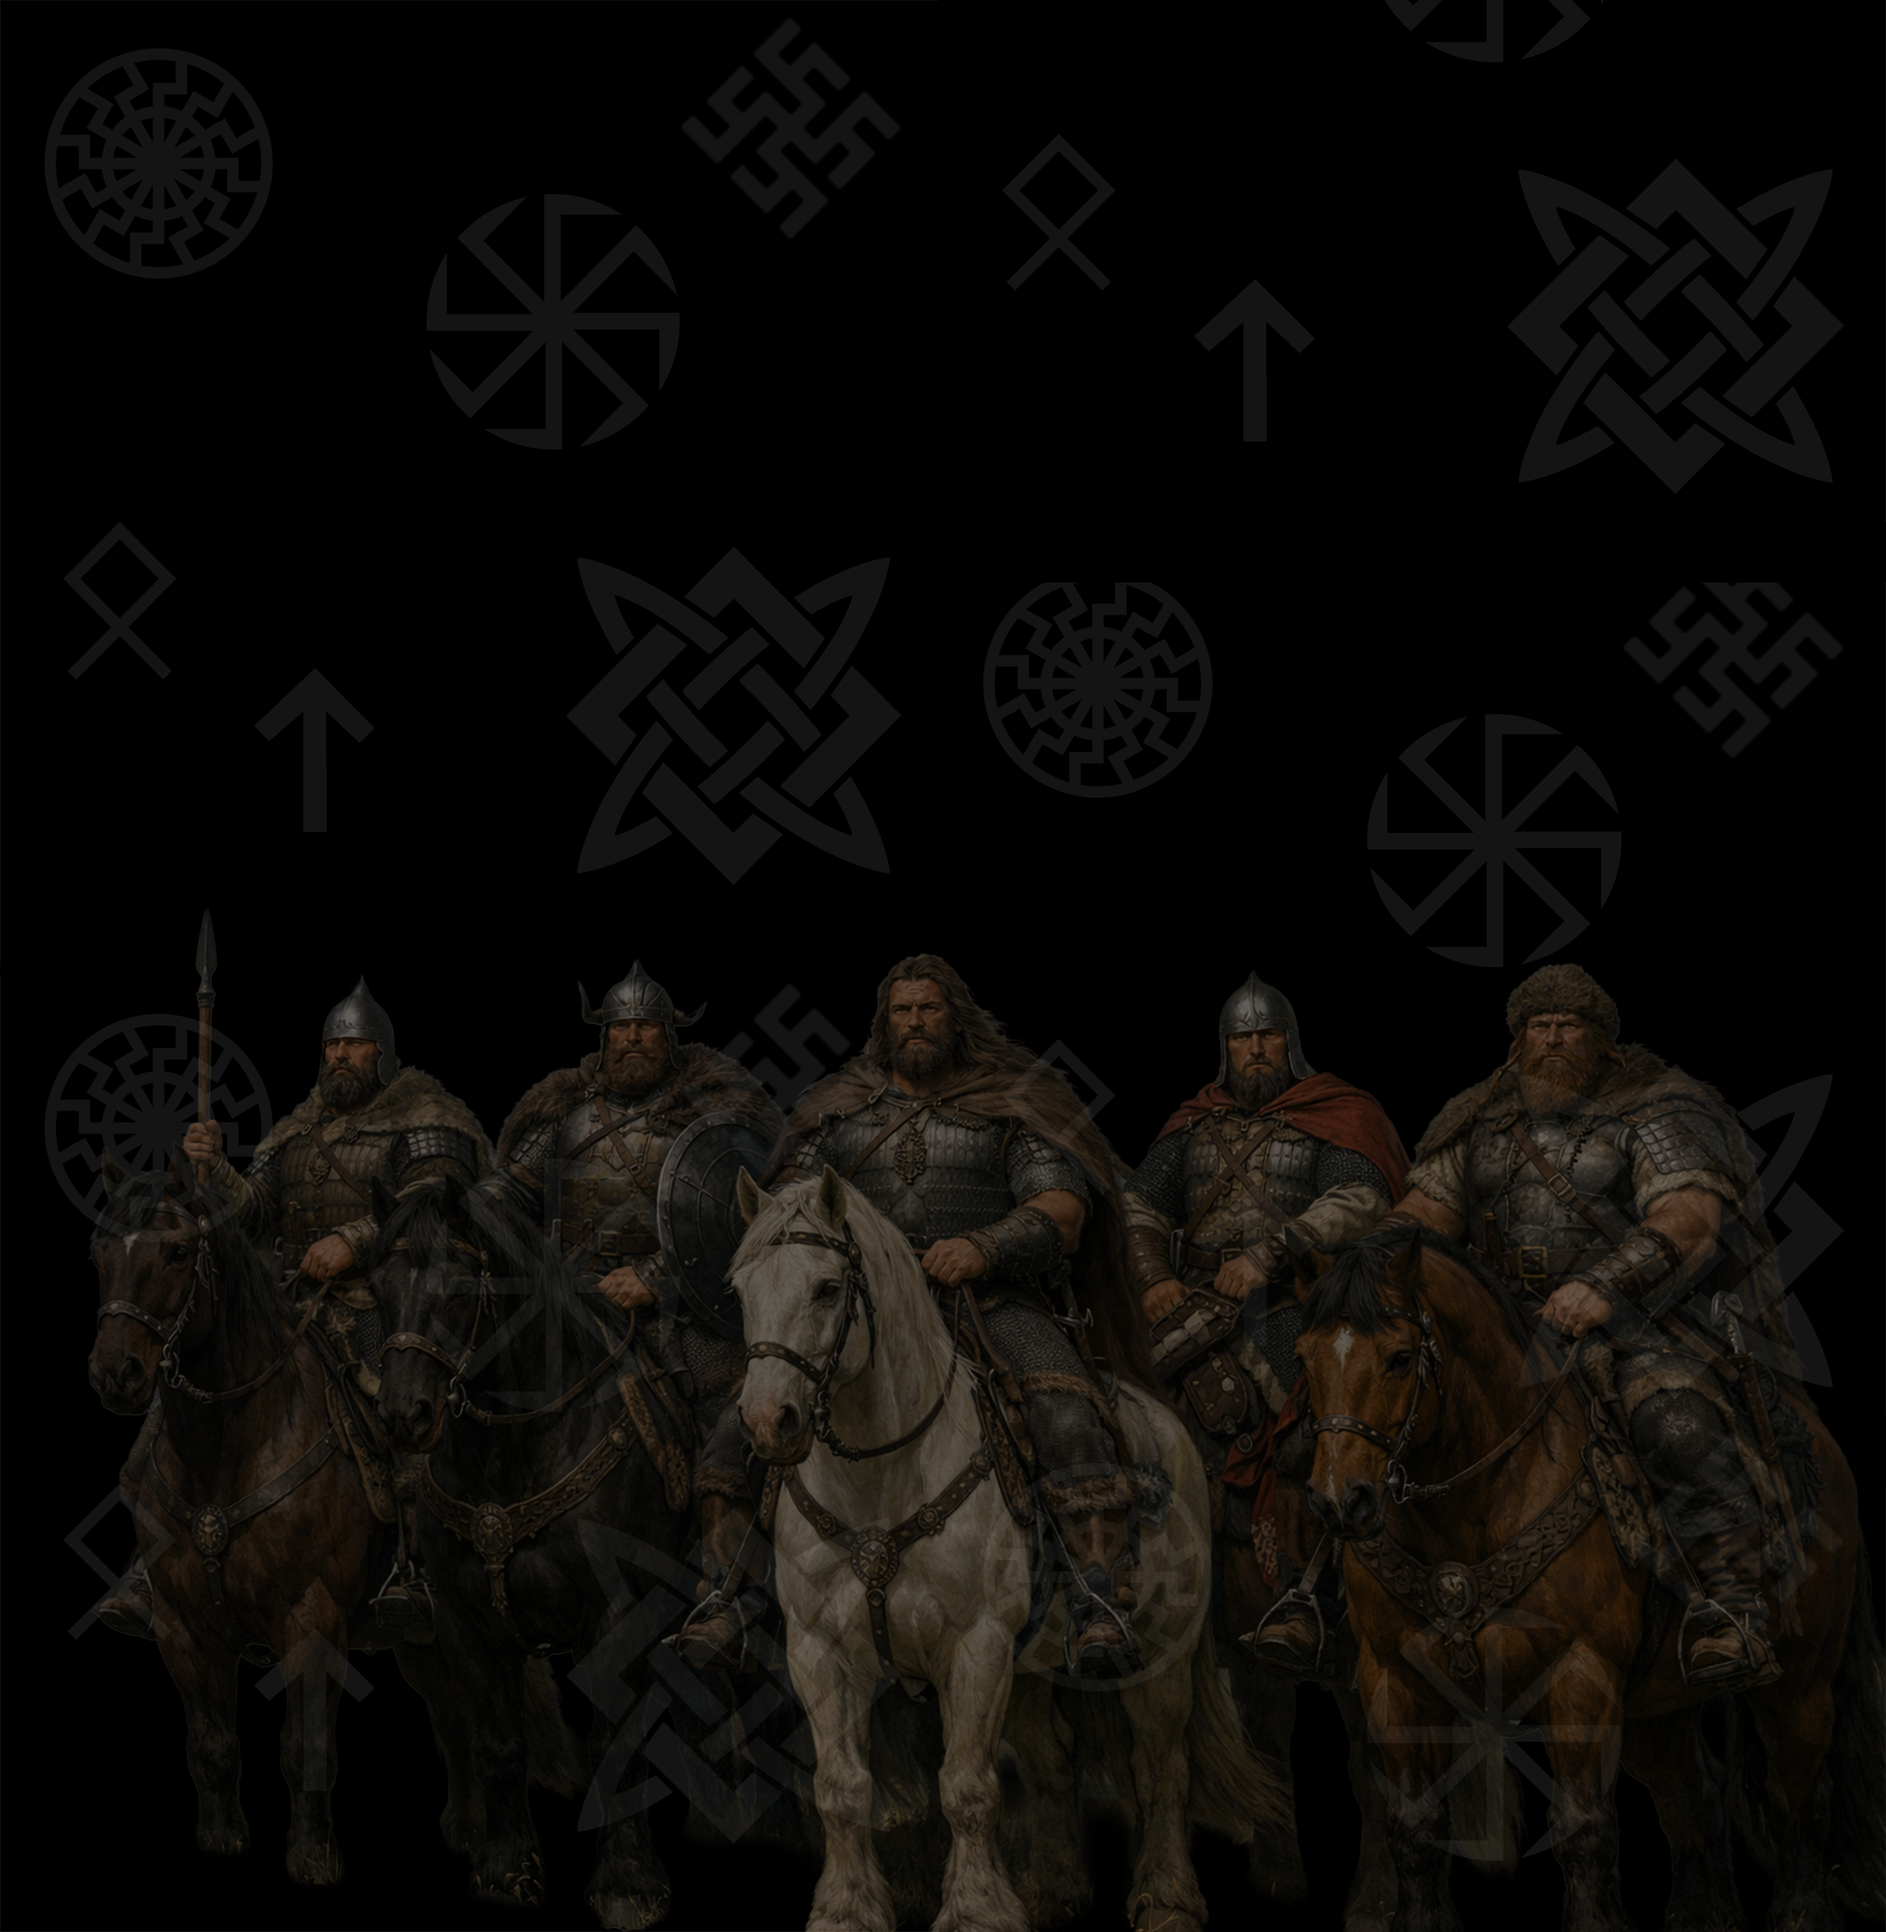
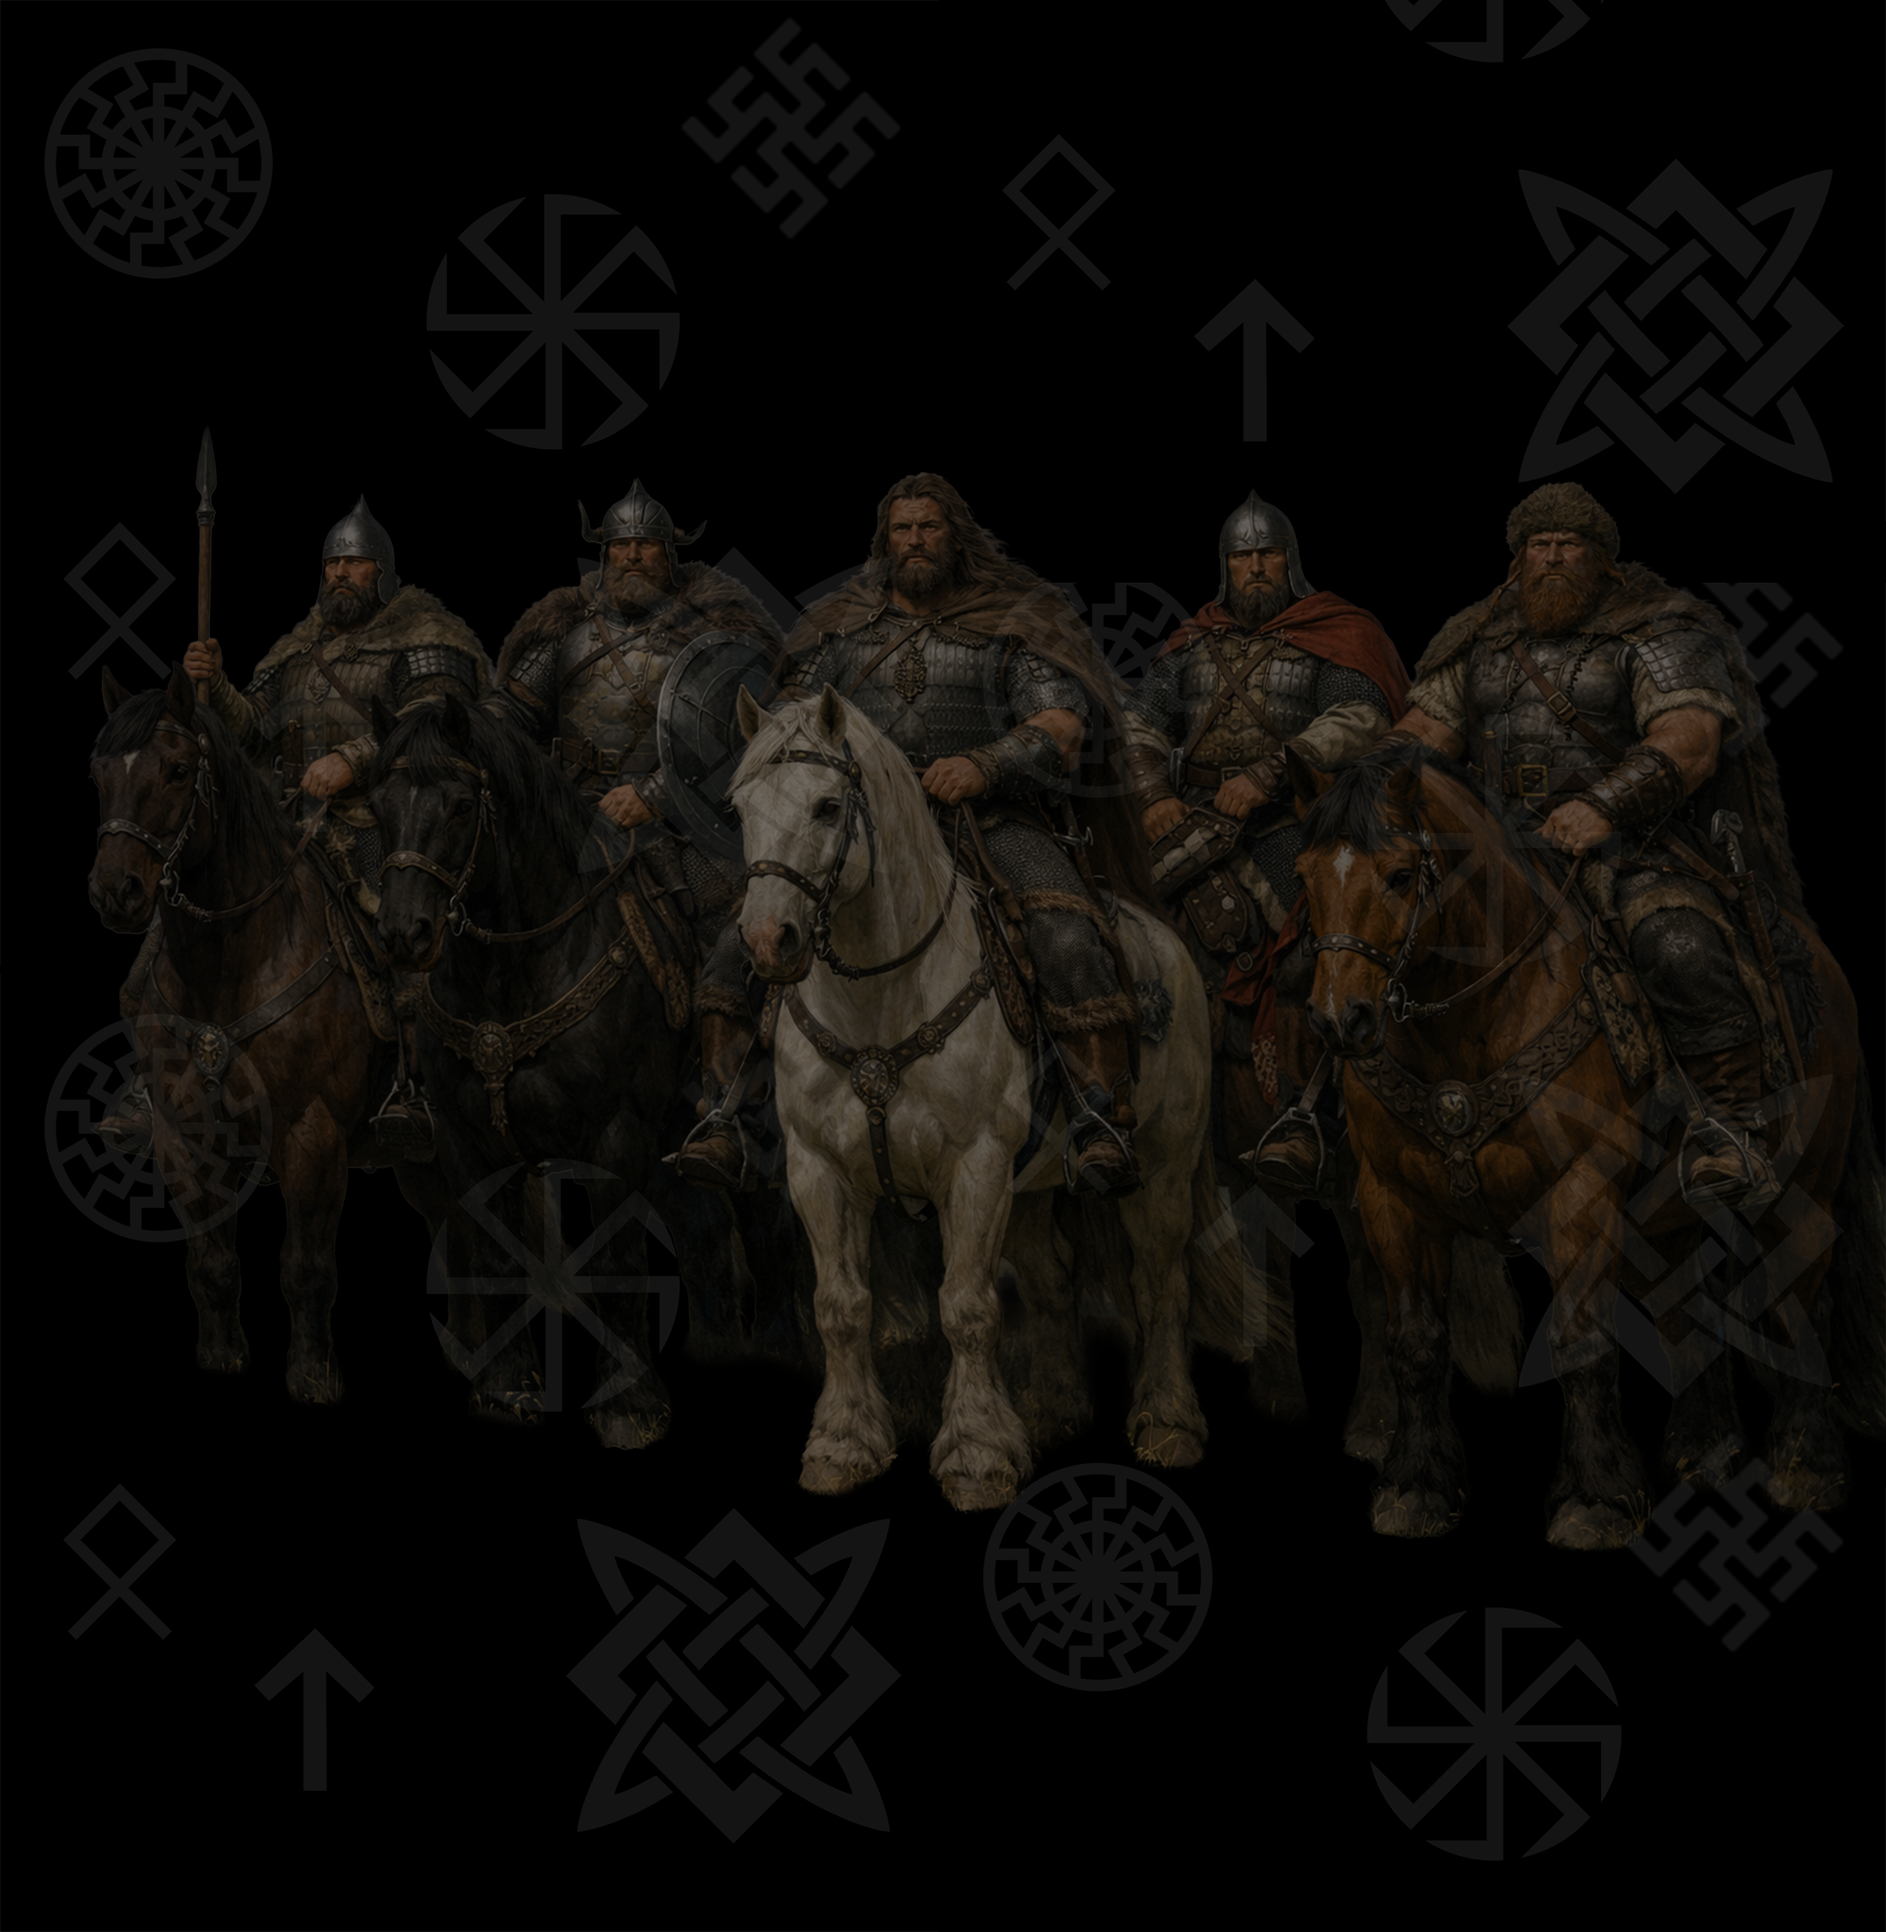
style: update site backgrounds and positioning to center images\n\nUpdate all component backgrounds to use 'center center' for centered images.

diff --git a/components/header.tsx b/components/header.tsx
@@ -38,7 +38,7 @@ export function Header() {
         backgroundColor: 'var(--dark-bg)',
         backgroundImage: 'url(/images/bg-black-pattern.png)',
         backgroundSize: 'cover',
-        backgroundPosition: 'center bottom',
+        backgroundPosition: 'center center',
         backgroundRepeat: 'no-repeat',
       }}
     >
@@ -111,7 +111,7 @@ export function Header() {
           backgroundColor: 'var(--dark-bg)',
           backgroundImage: 'url(/images/bg-black-pattern.png)',
           backgroundSize: 'cover',
-          backgroundPosition: 'center bottom',
+          backgroundPosition: 'center center',
           backgroundRepeat: 'no-repeat',
           borderTop: '1px solid var(--dark-border)'
         }}

diff --git a/app/globals.css b/app/globals.css
@@ -131,14 +131,14 @@
     background-color: var(--dark-bg);
     background-image: url('/images/bg-black-pattern.png');
     background-size: cover;
-    background-position: center bottom;
+    background-position: center center;
     background-repeat: no-repeat;
   }
   .bg-pattern-grey {
     background-color: var(--dark-surface);
     background-image: url('/images/bg-grey-pattern.png');
     background-size: cover;
-    background-position: center bottom;
+    background-position: center center;
     background-repeat: no-repeat;
   }
 }

diff --git a/components/footer.tsx b/components/footer.tsx
@@ -9,7 +9,7 @@ export function Footer() {
         backgroundColor: 'var(--dark-bg)',
         backgroundImage: 'url(/images/bg-black-pattern.png)',
         backgroundSize: 'cover',
-        backgroundPosition: 'center bottom',
+        backgroundPosition: 'center center',
         backgroundRepeat: 'no-repeat',
         borderColor: 'var(--dark-border)',
         color: 'var(--foreground)'

diff --git a/app/schedule-prices/page.tsx b/app/schedule-prices/page.tsx
@@ -22,7 +22,7 @@ export default function SchedulePricesPage() {
             backgroundColor: 'var(--dark-bg)',
             backgroundImage: 'url(/images/bg-black-pattern.png)',
             backgroundSize: 'cover',
-            backgroundPosition: 'center bottom',
+            backgroundPosition: 'center center',
             backgroundRepeat: 'no-repeat',
           }}
         >

diff --git a/app/contacts/page.tsx b/app/contacts/page.tsx
@@ -20,7 +20,7 @@ export default function ContactsPage() {
             backgroundColor: 'var(--dark-bg)',
             backgroundImage: 'url(/images/bg-black-pattern.png)',
             backgroundSize: 'cover',
-            backgroundPosition: 'center bottom',
+            backgroundPosition: 'center center',
             backgroundRepeat: 'no-repeat',
           }}
         >

diff --git a/app/coaches/page.tsx b/app/coaches/page.tsx
@@ -21,7 +21,7 @@ export default function CoachesPage() {
             backgroundColor: 'var(--dark-bg)',
             backgroundImage: 'url(/images/bg-black-pattern.png)',
             backgroundSize: 'cover',
-            backgroundPosition: 'center bottom',
+            backgroundPosition: 'center center',
             backgroundRepeat: 'no-repeat',
           }}
         >

diff --git a/components/contacts/contacts-content.tsx b/components/contacts/contacts-content.tsx
@@ -67,7 +67,7 @@ export function ContactsContent() {
           backgroundColor: 'var(--dark-bg)',
           backgroundImage: 'url(/images/bg-black-pattern.png)',
           backgroundSize: 'cover',
-          backgroundPosition: 'center bottom',
+          backgroundPosition: 'center center',
           backgroundRepeat: 'no-repeat',
         }}
       >

diff --git a/components/schedule/pricing-section.tsx b/components/schedule/pricing-section.tsx
@@ -156,7 +156,7 @@ export function PricingSection() {
         backgroundColor: 'var(--dark-bg)',
         backgroundImage: 'url(/images/bg-black-pattern.png)',
         backgroundSize: 'cover',
-        backgroundPosition: 'center bottom',
+        backgroundPosition: 'center center',
         backgroundRepeat: 'no-repeat',
       }}
     >

diff --git a/components/home/reviews-section.tsx b/components/home/reviews-section.tsx
@@ -63,7 +63,7 @@ export function ReviewsSection() {
         backgroundColor: 'var(--dark-bg)',
         backgroundImage: 'url(/images/bg-black-pattern.png)',
         backgroundSize: 'cover',
-        backgroundPosition: 'center bottom',
+        backgroundPosition: 'center center',
         backgroundRepeat: 'no-repeat',
       }}
     >

diff --git a/components/home/why-us-section.tsx b/components/home/why-us-section.tsx
@@ -41,7 +41,7 @@ export function WhyUsSection() {
         backgroundColor: 'var(--dark-bg)',
         backgroundImage: 'url(/images/bg-black-pattern.png)',
         backgroundSize: 'cover',
-        backgroundPosition: 'center bottom',
+        backgroundPosition: 'center center',
         backgroundRepeat: 'no-repeat',
       }}
     >

diff --git a/components/home/hero-section.tsx b/components/home/hero-section.tsx
@@ -16,7 +16,7 @@ export function HeroSection() {
         backgroundColor: 'var(--dark-bg)',
         backgroundImage: 'url(/images/bg-black-pattern.png)',
         backgroundSize: 'cover',
-        backgroundPosition: 'center bottom',
+        backgroundPosition: 'center center',
         backgroundRepeat: 'no-repeat',
       }}
     >

diff --git a/components/home/cta-section.tsx b/components/home/cta-section.tsx
@@ -10,7 +10,7 @@ export function CtaSection() {
         backgroundColor: 'var(--dark-bg)',
         backgroundImage: 'url(/images/bg-black-pattern.png)',
         backgroundSize: 'cover',
-        backgroundPosition: 'center bottom',
+        backgroundPosition: 'center center',
         backgroundRepeat: 'no-repeat',
       }}
     >
